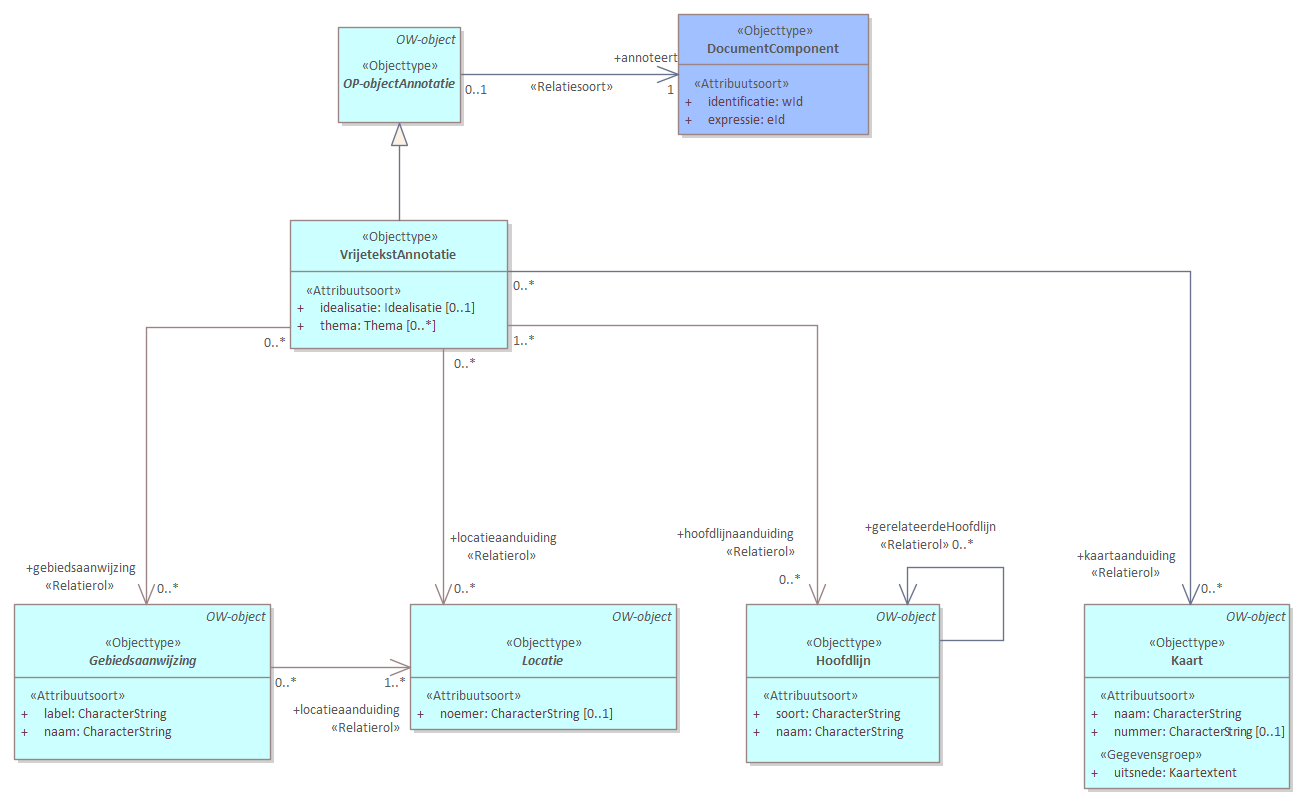
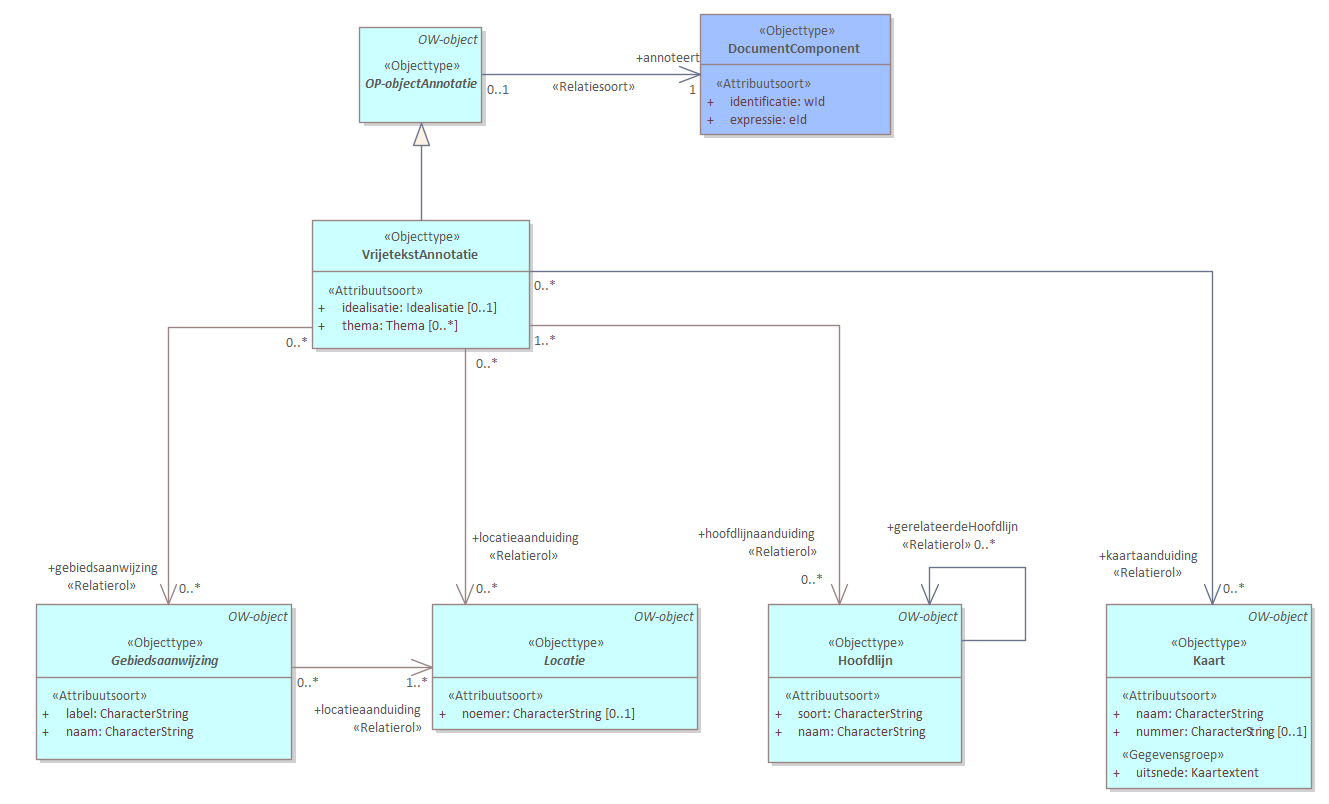
MIMCM-dso-cim-ow-1.0-0-20230213-20231024-095351

diff --git a/data/dso-cim-ow-cat.respec.html b/data/dso-cim-ow-cat.respec.html
@@ -1,7 +1,7 @@
 
 <!DOCTYPE HTML><section id="cat" class="normative">
    <h2>Gegevensdefinitie</h2>
-   <!--MIMCM-dso-cim-ow-1.0-0-20230213-20231009-141643 imvertor Nightly-build.10-->
+   <!--MIMCM-dso-cim-ow-1.0-0-20230213-20231024-095351 imvertor Nightly-build.11-->
    <section id="global_packages">
       <h3>Model   dso-cim-ow</h3>
       <section id="EAID_199FD13D_8495_487c_8D35_8C11BB634BAE">
@@ -38,7 +38,7 @@
          <h4>   OW - RegeltekstAnnotaties - overzicht</h4>
          <div class="imageinfo overview">
             <figure><img src="data/Images/EAID_39BFBADA_1173_4408_A26C_16716D45ACFC.png" usemap="#imagemap-EAID_39BFBADA_1173_4408_A26C_16716D45ACFC" alt="Diagram &#xA;                        Met een RegeltekstAnnotatie worden aan  een Artikel of Lid de volgende gegevens gekoppeld:&#xA;                        &#xA;                        &#xA;                           0 of meer Thema's.&#xA;                           1 of meer Juridische regels.&#xA;                           1 of meer Locaties als werkingsgebied.&#xA;                        &#xA;                        &#xA;                        De juridische regel zelf is weer opgesplit in drie types...&#xA;                     "><figcaption>OW - RegeltekstAnnotaties</figcaption>
-            </figure><map name="imagemap-EAID_39BFBADA_1173_4408_A26C_16716D45ACFC"><area shape="rect" alt="ActiviteitLocatieaanduiding" coords="577,685,892,789" href="#global_class_Regel_ActiviteitLocatieaanduiding"><area shape="rect" alt="OP-objectAnnotatie" coords="251,26,374,122" href="#global_class_DatatypenAlgemeen_OPObjectAnnotatie"><area shape="rect" alt="Omgevingswaarderegel" coords="1281,543,1453,601" href="#global_class_Regel_Omgevingswaarderegel"><area shape="rect" alt="Regel voor iedereen" coords="558,536,913,644" href="#global_class_Regel_RegelVoorIedereen"><area shape="rect" alt="Instructieregel" coords="939,536,1263,657" href="#global_class_Regel_Instructieregel"><area shape="rect" alt="Functie" coords="104,689,260,797" href="#global_class_GebiedsAanwijzing_Functie"><area shape="rect" alt="Beperkingengebied" coords="283,689,495,797" href="#global_class_GebiedsAanwijzing_Beperkingengebied"><area shape="rect" alt="Gebiedsaanwijzing" coords="223,454,405,597" href="#global_class_GebiedsAanwijzing_Gebiedsaanwijzing"><area shape="rect" alt="Normwaarde" coords="1188,1190,1542,1397" href="#global_class_RegelsOpLocatie_Normwaarde"><area shape="rect" alt="RegeltekstAnnotatie" coords="174,183,469,374" href="#global_class_Regel_RegeltekstAnnotatie"><area shape="rect" alt="Norm" coords="1215,707,1462,909" href="#global_class_RegelsOpLocatie_Norm"><area shape="rect" alt="Locatie" coords="615,1337,821,1464" href="#global_class_Locatie_Locatie"><area shape="rect" alt="Juridische regel" coords="722,235,972,381" href="#global_class_Regel_JuridischeRegel"><area shape="rect" alt="Omgevingswaarde" coords="1357,1032,1594,1148" href="#global_class_RegelsOpLocatie_Omgevingswaarde"><area shape="rect" alt="Omgevingsnorm" coords="1095,1032,1337,1148" href="#global_class_RegelsOpLocatie_Omgevingsnorm"><area shape="rect" alt="Activiteit" coords="554,995,742,1138" href="#global_class_RegelsOpLocatie_Activiteit"></map><p>
+            </figure><map name="imagemap-EAID_39BFBADA_1173_4408_A26C_16716D45ACFC"><area shape="rect" alt="ActiviteitLocatieaanduiding" coords="589,685,905,789" href="#global_class_Regel_ActiviteitLocatieaanduiding"><area shape="rect" alt="OP-objectAnnotatie" coords="264,26,387,122" href="#global_class_DatatypenAlgemeen_OPObjectAnnotatie"><area shape="rect" alt="Omgevingswaarderegel" coords="1293,543,1465,601" href="#global_class_Regel_Omgevingswaarderegel"><area shape="rect" alt="Regel voor iedereen" coords="570,536,925,644" href="#global_class_Regel_RegelVoorIedereen"><area shape="rect" alt="Instructieregel" coords="951,536,1275,657" href="#global_class_Regel_Instructieregel"><area shape="rect" alt="Functie" coords="116,689,272,797" href="#global_class_GebiedsAanwijzing_Functie"><area shape="rect" alt="Beperkingengebied" coords="295,689,507,797" href="#global_class_GebiedsAanwijzing_Beperkingengebied"><area shape="rect" alt="Gebiedsaanwijzing" coords="235,454,417,597" href="#global_class_GebiedsAanwijzing_Gebiedsaanwijzing"><area shape="rect" alt="Normwaarde" coords="1200,1190,1554,1397" href="#global_class_RegelsOpLocatie_Normwaarde"><area shape="rect" alt="RegeltekstAnnotatie" coords="186,183,481,374" href="#global_class_Regel_RegeltekstAnnotatie"><area shape="rect" alt="Norm" coords="1227,707,1475,909" href="#global_class_RegelsOpLocatie_Norm"><area shape="rect" alt="Locatie" coords="627,1337,834,1464" href="#global_class_Locatie_Locatie"><area shape="rect" alt="Juridische regel" coords="734,235,984,381" href="#global_class_Regel_JuridischeRegel"><area shape="rect" alt="Omgevingswaarde" coords="1369,1032,1606,1148" href="#global_class_RegelsOpLocatie_Omgevingswaarde"><area shape="rect" alt="Omgevingsnorm" coords="1107,1032,1349,1148" href="#global_class_RegelsOpLocatie_Omgevingsnorm"><area shape="rect" alt="Activiteit" coords="566,995,754,1138" href="#global_class_RegelsOpLocatie_Activiteit"></map><p>
                
                <p>Met een RegeltekstAnnotatie worden aan  een Artikel of Lid de volgende gegevens gekoppeld:</p>
                
@@ -63,7 +63,7 @@
          <h4>   VrijeTekst - overzicht</h4>
          <div class="imageinfo overview">
             <figure><img src="data/Images/EAID_A509DD9D_C20A_4e73_8C68_39FB1D86F894.png" usemap="#imagemap-EAID_A509DD9D_C20A_4e73_8C68_39FB1D86F894" alt="Diagram &#xA;                        In een Regeling met vrijetekst-structuur waarin VrijetekstAnnotaties verwijzen naar een Divisie of Divisietekst kunnen de volgende gegevens wordt gekoppeld aan deze DocumentComponent:&#xA;                        &#xA;                        &#xA;                           Een  Idealisatie&#xA;                           1 of meerThemas&#xA;                           Gebiedsaanwijzingen&#xA;                           Locatie middels een locatieaanduiding&#xA;                           Hoofdlijnen&#xA;                           Kaarten&#xA;                        &#xA;                        &#xA;                     "><figcaption>VrijeTekst</figcaption>
-            </figure><map name="imagemap-EAID_A509DD9D_C20A_4e73_8C68_39FB1D86F894"><area shape="rect" alt="Kaart" coords="1084,604,1290,789" href="#global_class_Kaart_Kaart"><area shape="rect" alt="OP-objectAnnotatie" coords="338,27,461,123" href="#global_class_DatatypenAlgemeen_OPObjectAnnotatie"><area shape="rect" alt="Gebiedsaanwijzing" coords="14,604,271,760" href="#global_class_GebiedsAanwijzing_Gebiedsaanwijzing"><area shape="rect" alt="Locatie" coords="410,604,677,730" href="#global_class_Locatie_Locatie"><area shape="rect" alt="Hoofdlijn" coords="746,604,940,763" href="#global_class_VrijeTekst_Hoofdlijn"><area shape="rect" alt="VrijetekstAnnotatie" coords="290,220,508,349" href="#global_class_VrijeTekst_VrijetekstAnnotatie"></map><p>
+            </figure><map name="imagemap-EAID_A509DD9D_C20A_4e73_8C68_39FB1D86F894"><area shape="rect" alt="Kaart" coords="1106,604,1312,789" href="#global_class_Kaart_Kaart"><area shape="rect" alt="OP-objectAnnotatie" coords="359,27,482,123" href="#global_class_DatatypenAlgemeen_OPObjectAnnotatie"><area shape="rect" alt="Gebiedsaanwijzing" coords="36,604,292,760" href="#global_class_GebiedsAanwijzing_Gebiedsaanwijzing"><area shape="rect" alt="Locatie" coords="432,604,698,730" href="#global_class_Locatie_Locatie"><area shape="rect" alt="Hoofdlijn" coords="768,604,962,763" href="#global_class_VrijeTekst_Hoofdlijn"><area shape="rect" alt="VrijetekstAnnotatie" coords="312,220,530,349" href="#global_class_VrijeTekst_VrijetekstAnnotatie"></map><p>
                
                <p>In een Regeling met vrijetekst-structuur waarin VrijetekstAnnotaties verwijzen naar
                   een Divisie of Divisietekst kunnen de volgende gegevens wordt gekoppeld aan deze DocumentComponent:</p>
@@ -15054,7 +15054,7 @@
 </section>
 <section id="lis" class="normative">
    <h2>Inhoud van waardenlijsten</h2>
-   <!--MIMCM-dso-cim-ow-1.0-0-20230213-20231009-141643 imvertor Nightly-build.10-->
+   <!--MIMCM-dso-cim-ow-1.0-0-20230213-20231024-095351 imvertor Nightly-build.11-->
    <section>
       <h3>Referentielijst inhoud   </h3>
       <section id="detail_class_GebiedsAanwijzing_Beperkingengebiedgroep">
